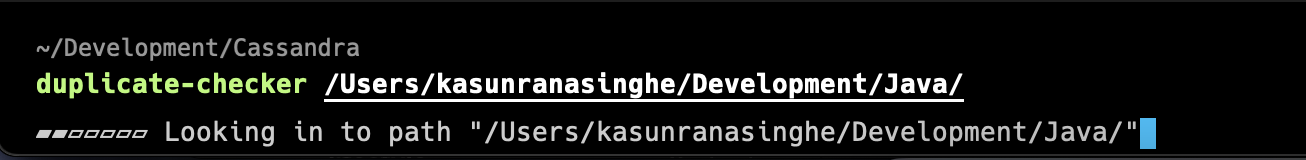
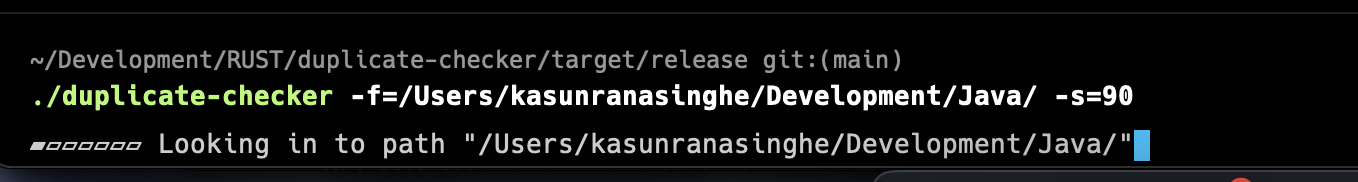
Added way to pass path and search score

diff --git a/src/cmd_handler.rs b/src/cmd_handler.rs
@@ -1,0 +1,151 @@
+
+
+pub struct CmdArgs {
+    pub root_folder: String,
+    pub search_score: i64,
+    pub use_sha: bool,
+}
+
+impl CmdArgs {
+    fn from(root_folder: String, search_score: i64, use_sha: bool) -> Self {
+        CmdArgs {
+            root_folder,
+            search_score,
+            use_sha,
+        }
+    }
+}
+
+
+/// Retuns command line arguments as CmdArgs
+///
+/// let args = vec![String::from("-f=/Downloads/abc"),String::from("-s=65"),String::from("-sha=true")];
+///
+/// let cmd = extract_cmd(args).unwrap();
+/// assert_eq!(String::from("/Downloads/abc"),cmd.root_folder);
+/// assert_eq!(65,cmd.search_score);
+/// assert_eq!(true,cmd.use_sha);
+/// 
+pub fn extract_cmd(args: Vec<String>) -> Result<CmdArgs, &'static str> {
+    if args.len() == 0 {
+        return Err("Not enough arguments, at least `-f` is required");
+    }
+
+    if args.len() > 3 {
+        return Err("Too many arguments, expect only `-f`, `-s` and `-sha`");
+    }
+
+    let args: Vec<_> = args
+        .iter()
+        .map(|arg| arg.split("="))
+        .map(|arg| arg.collect::<Vec<&str>>())
+        .filter(|splited_args| splited_args.get(0).is_some() && splited_args.get(1).is_some())
+        .collect();
+
+
+    if args.iter().find(|splited_args|splited_args.contains(&"-f")).is_none() {
+        return Err("Arguments does not contain -f");
+    }
+
+    let mut root_folder = "";
+    let mut search_score = 90;
+    let mut use_sha = false;
+
+    for arg in args {
+        if arg.len() > 2 {
+            return Err("Invalid arguments");
+        }
+
+        let key = match arg.get(0) {
+            None => return Err("Invalid arguments"),
+            Some(value) => *value,
+        };
+
+        if key.starts_with("-f") {
+            match arg.get(1) {
+                None => return Err("Invalid argument for `-f`"),
+                Some(value) => {
+                    root_folder = value;
+                }
+            }
+            continue;
+        }
+
+        if key.starts_with("-sha") {
+            match arg.get(1) {
+                None => return Err("Invalid argument for `-sha`"),
+                Some(value) => {
+                    use_sha = match value.parse::<bool>() {
+                        Err(_) => return Err("Invalid argument for `-sha`"),
+                        Ok(value) => value,
+                    };
+                }
+            }
+            continue;
+        }
+
+        if key.starts_with("-s") {
+            match arg.get(1) {
+                None => return Err("Invalid argument for `-s`"),
+                Some(value) => {
+                    search_score = match value.parse::<i64>() {
+                        Err(_) => return Err("Invalid argument for `-s`"),
+                        Ok(value) => value,
+                    };
+                }
+            }
+            continue;
+        }
+    }
+
+    Ok(CmdArgs::from(
+        root_folder.to_string(),
+        search_score,
+        use_sha,
+    ))
+}
+
+#[cfg(test)]
+mod tests {
+
+    use super::*;
+
+    #[test]
+    fn extract_cmd_ok() {
+        let args = vec![String::from("-f=/Downloads/abc"),String::from("-s=65"),String::from("-sha=true")];
+        let cmd = extract_cmd(args).unwrap();
+        assert_eq!(String::from("/Downloads/abc"),cmd.root_folder);
+        assert_eq!(65,cmd.search_score);
+        assert_eq!(true,cmd.use_sha);
+    }
+
+    #[test]
+    fn extract_cmd_zero_args() {
+        let args = vec![];
+        let cmd = extract_cmd(args);
+        match cmd {
+            Err(msg) => assert_eq!("Not enough arguments, at least `-f` is required",msg),
+            Ok(_) => println!("Will never happens")
+        }
+    }
+
+    #[test]
+    fn extract_cmd_more_args() {
+        let args = vec![String::from("-f=/Downloads/abc"),String::from("-s=65"),String::from("-sha=true"),String::from("-xxx=true")];
+        let cmd = extract_cmd(args);
+        match cmd {
+            Err(msg) => assert_eq!("Too many arguments, expect only `-f`, `-s` and `-sha`",msg),
+            Ok(_) => println!("Will never happens")
+        }
+    }
+
+    #[test]
+    fn extract_cmd_no_root() {
+        let args = vec![String::from("-fx=/Downloads/abc")];
+        let cmd = extract_cmd(args);
+        match cmd {
+            Err(msg) => assert_eq!("Arguments does not contain -f",msg),
+            Ok(_) => println!("Will never happens")
+        }
+    }
+}

diff --git a/src/lib.rs b/src/lib.rs
@@ -1,3 +1,4 @@
+pub mod cmd_handler;
 pub mod searcher {
     extern crate async_std;
     extern crate futures;
@@ -21,6 +22,8 @@ pub mod searcher {
     use fuzzy_matcher::skim::{SkimMatcherV2, SkimScoreConfig};
     use colored::Colorize;
     use spinners::{Spinner, Spinners};
+
+    use crate::cmd_handler::CmdArgs;
 
     pub type ResultAsync<T> = std::result::Result<T, Box<dyn std::error::Error + Send + Sync>>;
 
@@ -72,11 +75,11 @@ pub struct FileData {
         }
     }
 
-    pub async fn search_duplicates(root_folder: &String) {
-        let msg =  format!("Looking in to path {:?}",root_folder);
+    pub async fn search_duplicates(cmds: &CmdArgs) {
+        let msg =  format!("Looking in to path {:?}",cmds.root_folder);
         let mut sp = Spinner::new(Spinners::Aesthetic,msg.into());
 
-        let path = PathBuf::from(root_folder);
+        let path = PathBuf::from(cmds.root_folder.clone());
         let file_data: Vec<FileData> = vec![];
         let file_data_arch = Arc::new(Mutex::new(file_data));
 
@@ -94,7 +97,7 @@ pub struct FileData {
         let file_data = (*file_data_arch).lock().await;
 
         println!("Collected {} files",file_data.len());
-        println!("Started checking duplicates...");
+        println!("Started checking duplicates using score {}...",cmds.search_score);
 
         let matcher = configure_matcher();
 
@@ -108,7 +111,7 @@ pub struct FileData {
             if count == file_data.len() {
                 break;
             }
-            find_duplicate(&mut file_data, count, &matcher, &mut total_size_of_duplicate);
+            find_duplicate(&mut file_data, count, &matcher, &mut total_size_of_duplicate,cmds.search_score);
             count +=1;
         }
 
@@ -117,11 +120,11 @@ pub struct FileData {
 
     }
 
-    fn find_duplicate(file_data: &mut Vec<FileData>, count: usize, matcher: &SkimMatcherV2, total_size_of_duplicate: &mut u64) {
+    fn find_duplicate(file_data: &mut Vec<FileData>, count: usize, matcher: &SkimMatcherV2, total_size_of_duplicate: &mut u64, score_value: i64) {
         let a_file_date = file_data.get(count).unwrap();
         let sliced : Vec<FileData> =  file_data[count+1..file_data.len()].to_vec();
         let duplicates: Vec<_> = sliced.par_iter()
-        .filter(|file| is_a_duplicate(matcher, file, a_file_date) ).map(|file| file.clone()).collect();
+        .filter(|file| is_a_duplicate(matcher, file, a_file_date,score_value) ).map(|file| file.clone()).collect();
 
         if !duplicates.is_empty() {
 
@@ -136,17 +139,16 @@ pub struct FileData {
         }
     }
 
-    fn is_a_duplicate(matcher: &SkimMatcherV2, file: &&FileData, a_file_date: &FileData) -> bool {
+    fn is_a_duplicate(matcher: &SkimMatcherV2, file: &&FileData, a_file_date: &FileData, score_value: i64) -> bool {
         let result = matcher.fuzzy_match(file.file_name.as_str(), a_file_date.file_name.as_str());
         match result {
             None => false,
-            Some(score) => score >= 90 && a_file_date.size == file.size,
+            Some(score) => score >= score_value && a_file_date.size == file.size,
         }
     }
 
     fn configure_matcher() -> SkimMatcherV2 {
         let score_config = SkimScoreConfig {
-            gap_extension: -1,
             ..Default::default()
         };
         

diff --git a/src/main.rs b/src/main.rs
@@ -1,10 +1,21 @@
-use std::env;
+use std::{env, process};
 use async_std::task;
 use duplicate_checker::searcher::search_duplicates;
+use duplicate_checker::cmd_handler::extract_cmd;
 
 fn main() {
     let args: Vec<String> = env::args().collect();
-    let file_path = &args[1];
-    let search_future = search_duplicates(file_path);
-    task::block_on(search_future);
+    let cmds = extract_cmd(args);
+    match cmds {
+        Err(msg) => {
+            eprintln!("{}", &msg);
+            process::exit(0);
+        },
+        Ok(value) => {
+            
+            let search_future = search_duplicates(&value);
+            task::block_on(search_future);
+        }
+    }
+    
 }

diff --git a/README.md b/README.md
@@ -7,6 +7,9 @@
 
 ## How to
 Install using cargo `cargo install duplicate-checker`  
-Run `duplicate-checker {path-to-check-duplicate}`
+Run `duplicate-checker -f={path-to-check-duplicate} -s=90`  
+CMD arguments  
+`-f` Path to check duplicate  
+`-s` Search score
 
 ![How to](how-to.png)
